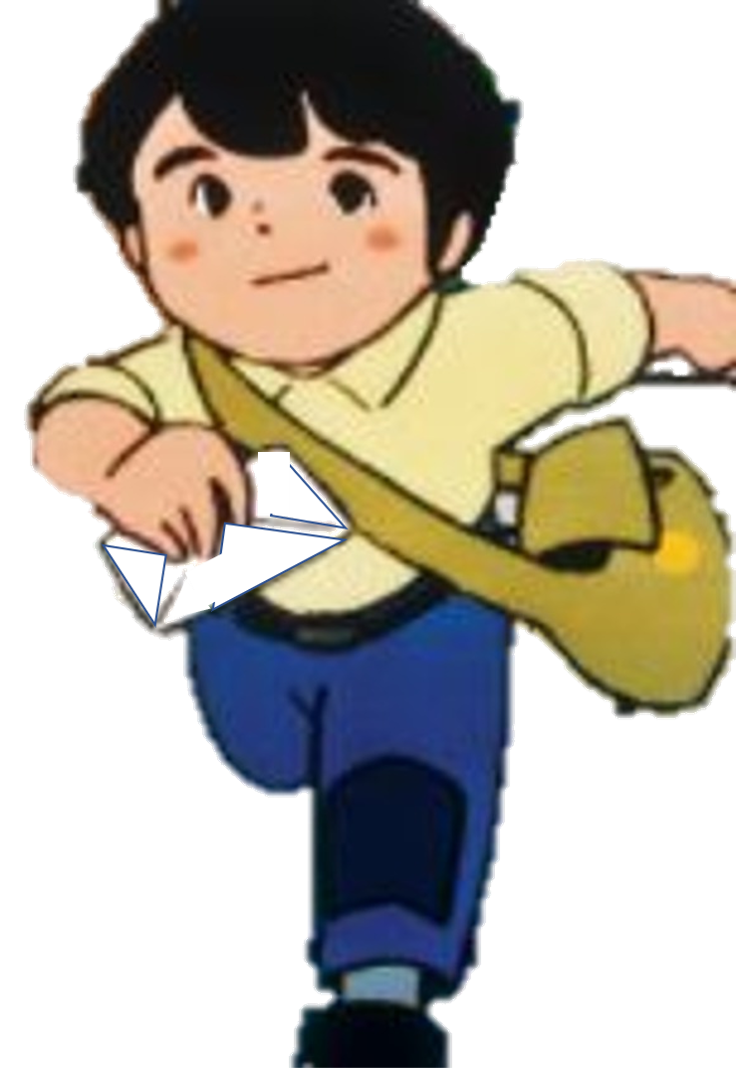
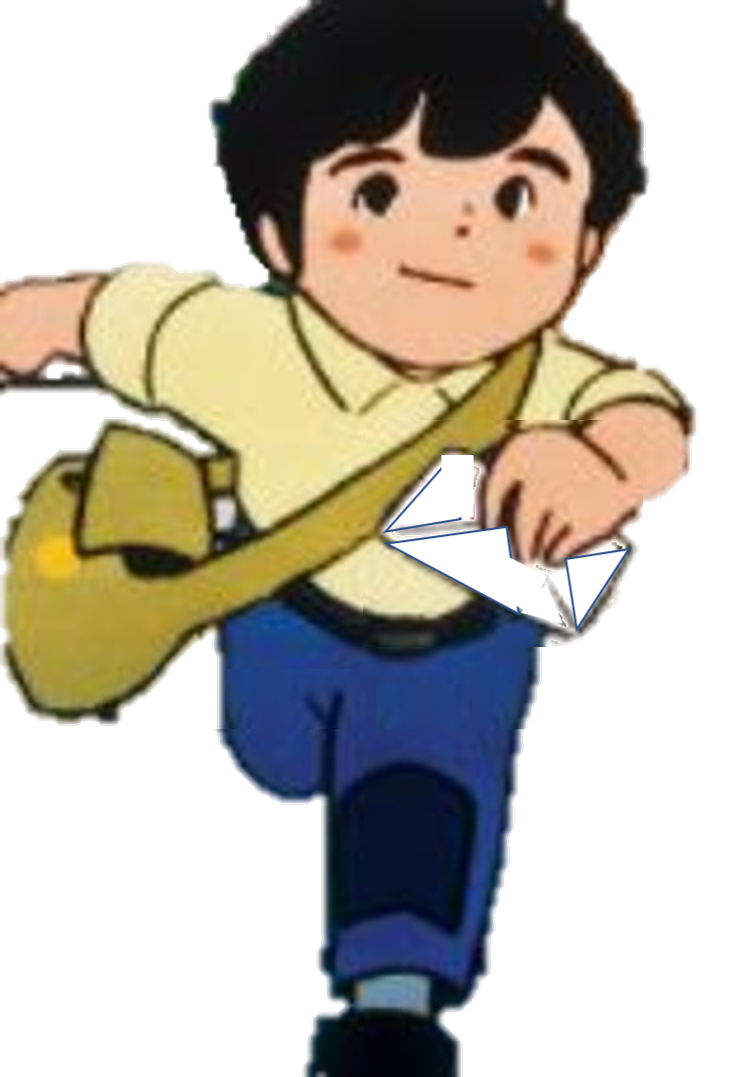
marcoPlayer image change

diff --git a/src/View/MazeDisplayer.java b/src/View/MazeDisplayer.java
@@ -20,7 +20,7 @@ public class MazeDisplayer extends Canvas  {
     private int pipitoRow;
     private int pipitoCol;
   //  private Image playerImage ;
-    private boolean changeImagePlayer=false;
+
 
     public int[][] getMaze() {
         return maze;
@@ -30,6 +30,7 @@ public class MazeDisplayer extends Canvas  {
         this.maze = maze;
     }
     private boolean changeSea = false;
+    private boolean changeImagePlayer=false;
     private int[][] maze;
     private Solution s;
     private Position startP;
@@ -396,10 +397,18 @@ public class MazeDisplayer extends Canvas  {
         double y = getPlayerRow() * cellHeight+startY;
         graphicsContext.setFill(Color.GREEN);
 
-        final Image[] playerImage = {null};
+
+        Image playerImage = null;
         try {
-            playerImage[0] = new Image(new FileInputStream(getImageFileNamePlayer1()));
-        } catch (FileNotFoundException e) {
+            if (changeImagePlayer) {
+                playerImage = new Image(new FileInputStream(getImageFileNamePlayer1()));
+                changeImagePlayer = false;
+            } else {
+                playerImage = new Image(new FileInputStream(getImageFileNamePlayer2()));
+                changeImagePlayer = true;
+            }
+        }
+        catch (FileNotFoundException e) {
             System.out.println("There is no player image file");
         }
 //        Timer timer = new Timer();
@@ -427,10 +436,10 @@ public class MazeDisplayer extends Canvas  {
 //            }
 //        }, 0, 1000);//wait 0 ms before doing the action and do it evry 1000ms (1second)
 
-        if(playerImage[0] == null)
+        if(playerImage == null)
             graphicsContext.fillRect(x, y, cellWidth, cellHeight);
         else
-            graphicsContext.drawImage(playerImage[0], x, y, cellWidth, cellHeight);
+            graphicsContext.drawImage(playerImage, x, y, cellWidth, cellHeight);
     }
 
     public void drawS(Solution s) {
